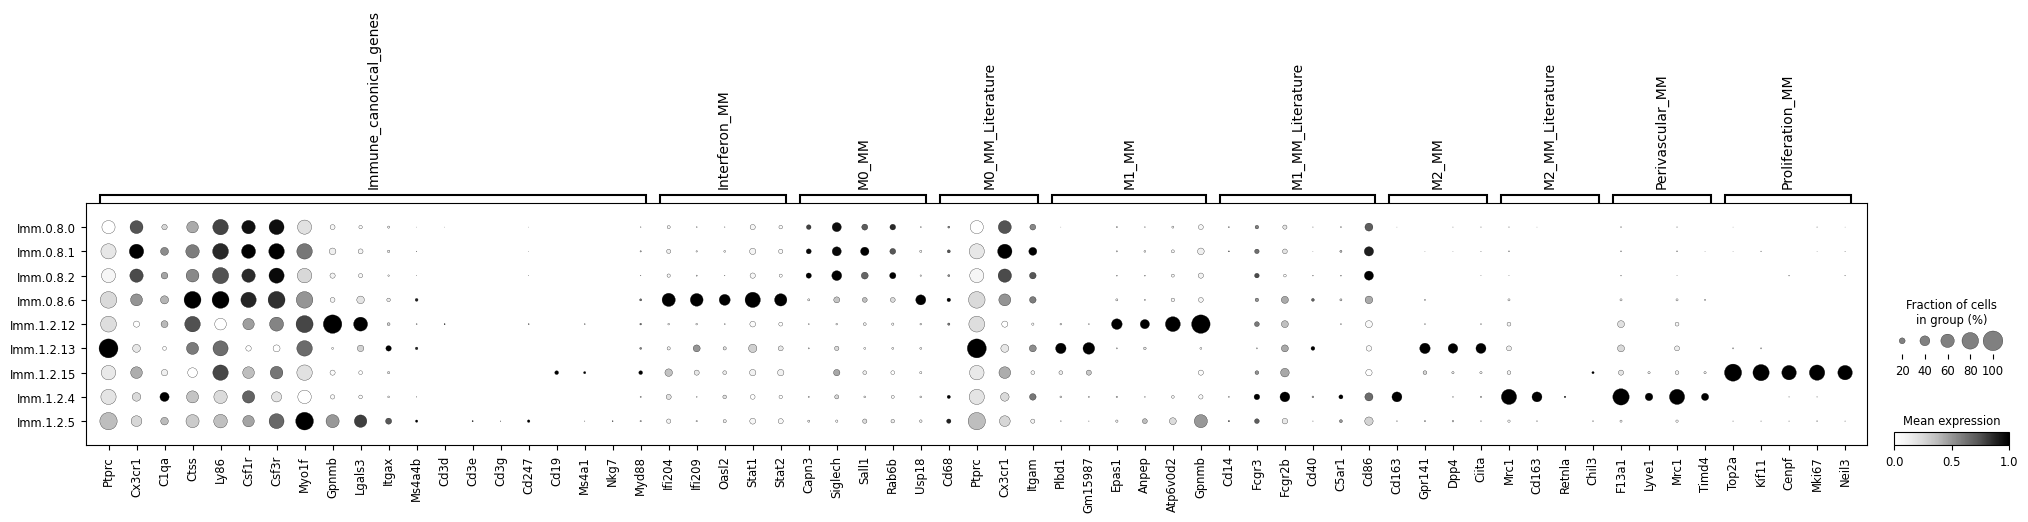
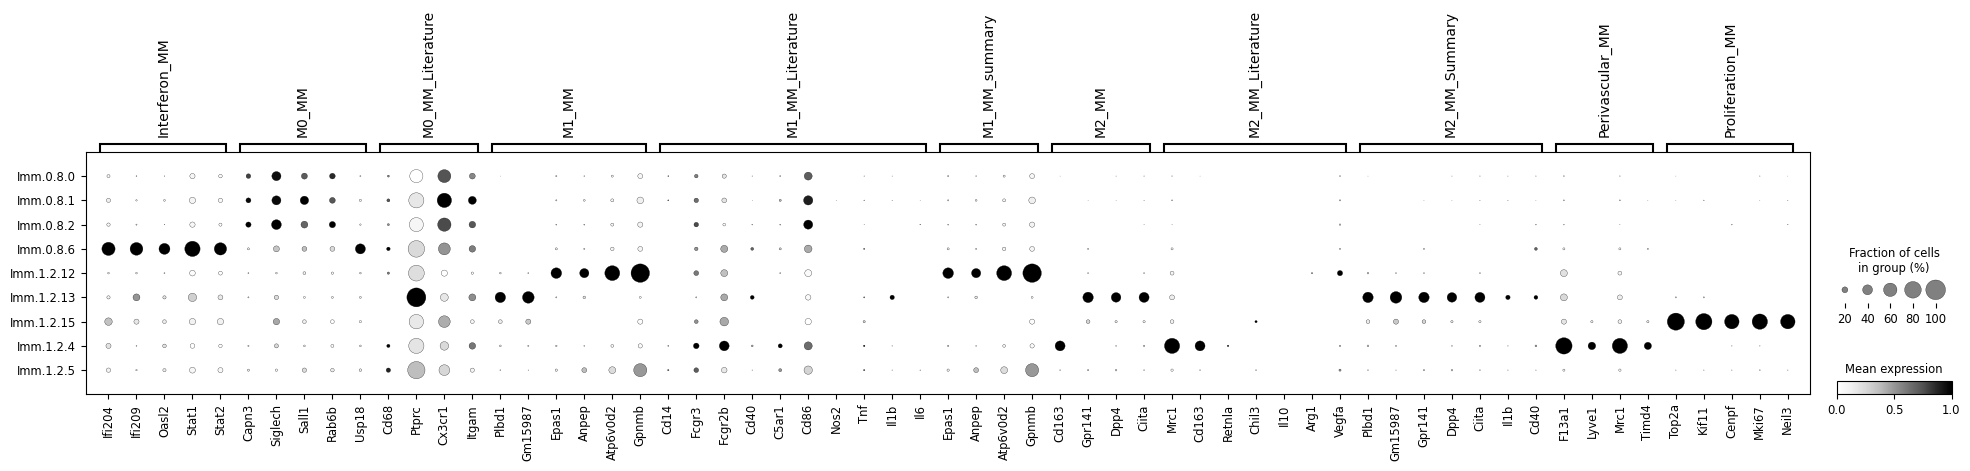
update canonicals

diff --git a/src/scripts/scripts_meningeal/meningeal_canonical.py b/src/scripts/scripts_meningeal/meningeal_canonical.py
@@ -32,18 +32,28 @@ def remove_NA_cat(adata: sc.AnnData):
     return adata2
 
 # Load canonical genes
-def load_canonical(meningeal_txt, other_txt):
+def load_canonical_from_dir(directory):
+    """
+    Load gene lists from all .txt files in a directory.
 
-    genes_meningeal = open(meningeal_txt).read().split()
+    Parameters:
+    directory (str): Path to the directory containing .txt files.
 
-    genes_other = open(other_txt).read().split()
+    Returns:
+    dict: Dictionary of gene lists with filenames (without extensions) as keys.
+    """
+    print(f"Loading canonical gene lists from: {directory}")
+    gene_files = [f for f in os.listdir(directory) if f.endswith('.txt')]
 
-    top_genes_names = {'Immune': genes_meningeal,
-                       'Other': genes_other
-                    }
-    print(top_genes_names)
+    gene_dict = {}
+    for gene_file in gene_files:
+        file_path = os.path.join(directory, gene_file)
+        gene_name = os.path.splitext(gene_file)[0]  # Use the filename without the extension
+        with open(file_path, 'r') as f:
+            gene_dict[gene_name] = f.read().splitlines()
 
-    return top_genes_names
+    print(f"Loaded gene lists: {list(gene_dict.keys())}")
+    return gene_dict
 
 # Step 7: Visualize the DotPlots of the DGE's
 def create_dotplot(adata, top_genes_names, output_dir="canonical_meningeal"):
@@ -58,13 +68,16 @@ def create_dotplot(adata, top_genes_names, output_dir="canonical_meningeal"):
     Returns:
     None
     """
-    # # Create the directory if it doesn't exist
-    # if os.path.exists(output_dir):
-    #     shutil.rmtree(output_dir)
-    # os.makedirs(output_dir)
+    # Create the directory if it doesn't exist
+    if not os.path.exists(output_dir):
+        os.makedirs(output_dir)
+    
 
     # Generate the dotplot
     print(f"\nGenerating a dotplot")
+
+    # Sort the gene groups (keys) alphabetically
+    top_genes_names = {key: top_genes_names[key] for key in sorted(top_genes_names.keys())}
 
     dotplot = sc.pl.dotplot(
         adata,
@@ -82,7 +95,7 @@ def create_dotplot(adata, top_genes_names, output_dir="canonical_meningeal"):
     )
 
 
-    output_path = os.path.join(output_dir, "dotplot_meningeal_canonical.png")
+    output_path = os.path.join(output_dir, "dotplot_meningeal_canonical_ordered_dani.png")
     dotplot.savefig(output_path, bbox_inches="tight")
     plt.close()  # Close the current figure to avoid overlap
 
@@ -113,7 +126,9 @@ if __name__ == "__main__":
 
     filtered_adata = remove_NA_cat(adata)
 
-    genes = load_canonical("/home/makowlg/Documents/Immune-CCI/src/MeV_canonical_genes.txt")
+    # Load canonical gene lists from a directory
+    canonical_genes_dir = "/home/makowlg/Documents/Immune-CCI/src/canonical_txt/Meningeal"
+    genes = load_canonical_from_dir(canonical_genes_dir)
 
     # Create dendogram ot the top genes
     dendogram_sc(filtered_adata)

diff --git a/src/scripts/scripts_immune/immune_canonical.py b/src/scripts/scripts_immune/immune_canonical.py
@@ -76,7 +76,7 @@ def create_dotplot(adata, top_genes_names, output_dir="canonical_immune"):
     top_genes_names = {key: top_genes_names[key] for key in sorted(top_genes_names.keys())}
 
     # Generate the dotplot
-    print(f"\nGenerating a dotplot ordered by gene group (alphabetical order)")
+    print(f"\nGenerating a dotplot")
     dotplot = sc.pl.dotplot(
         adata,
         var_names=top_genes_names,
@@ -93,7 +93,7 @@ def create_dotplot(adata, top_genes_names, output_dir="canonical_immune"):
     )
 
     # Save the plot
-    output_path = os.path.join(output_dir, "dotplot_immune_canonical_ordered_dendro.png")
+    output_path = os.path.join(output_dir, "dotplot_immune_canonical_ordered_dani_dendro.png")
     dotplot.savefig(output_path, bbox_inches="tight")
     plt.close()  # Close the current figure to avoid overlap
 
